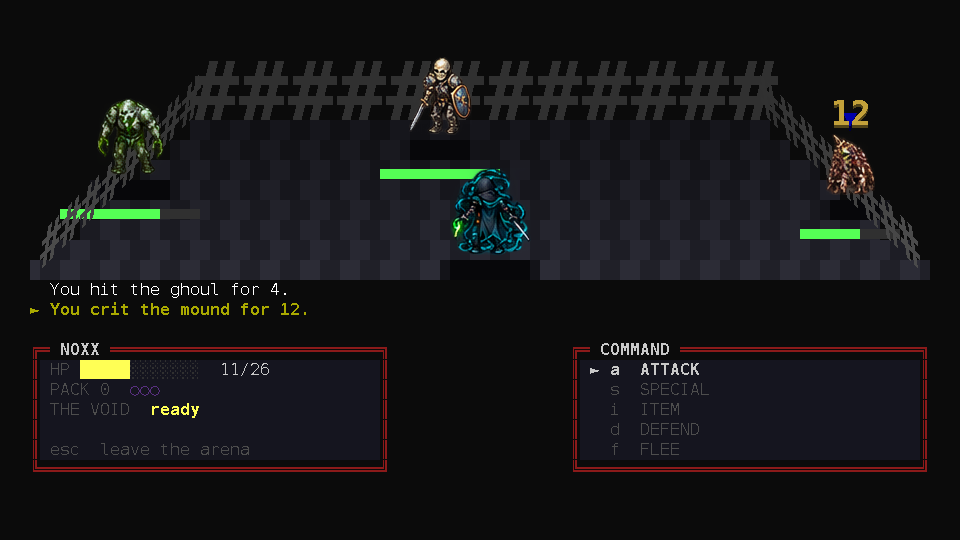
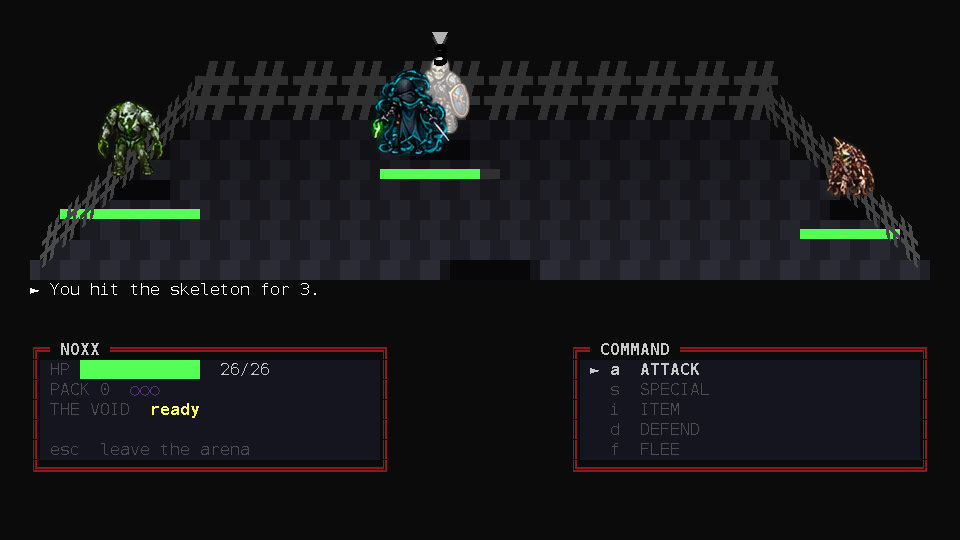
the arena moves: a breath, a blink, and a flash
A fight was a still picture that changed once a beat. Now the figures breathe --
two pixels, each on a phase taken from its own place on the floor, so a row of
monsters does not rise like a wave -- and a blow is a *blink*: the striker fades
out where it stands, comes back in beside whatever it is hitting, and is gone
again before the beat that started it is over. Whoever takes the blow jolts and
flashes white for a quarter of a second, and the camera knock is the one the
arena already had.

Nothing *travels*. A fight this size has no room for a walk, and a monster that
walked over would make every round twice as long as the blow it holds -- but the
eye reads the two places as one movement, which is the whole trick, and the fight
has had the regie for it since M1: events land one at a time, so an event is
exactly the length of one blow.

The flash is the sprite as a white silhouette (its own alpha, filled white, made
once and kept), and the jolt is three pixels of shake. Striking figures are drawn
in a second pass, on top of everybody else, so the striker lands *in front of*
the one it is hitting.

The arena says it is `animating` as well as `busy`, which are two different
things that were one: busy holds the keyboard while the fight is talking, and
animating repaints every frame. Only the first of them should stop a player from
choosing, and the second is what a breath needs.

`docs/battle.png` is a blow landing.

diff --git a/src/neverdeads_revenge/desktop/screens/battle.py b/src/neverdeads_revenge/desktop/screens/battle.py
@@ -23,7 +23,7 @@ from __future__ import annotations
 import math
 from dataclasses import dataclass
 
-from PySide6.QtGui import QColor, QFontMetrics, QPainter, QTransform
+from PySide6.QtGui import QColor, QFontMetrics, QImage, QPainter, QTransform
 
 from ...game.battle import (
     ATTACK,
@@ -102,6 +102,18 @@ ARROW = "▼"
 BEAT = 0.42
 #: How long a number hangs in the air over a head.
 POPUP_LIFE = 0.85
+#: The idle breath: how fast a figure rises and falls, and how far. Small on
+#: purpose -- two pixels is the difference between a fight and a photograph.
+BOB_SPEED = 2.3
+BOB_HEIGHT = 2
+#: How long a strike takes, and when inside it the blow lands. A blink: out
+#: where the striker stands, back in beside what it is hitting, and gone again
+#: before the beat that started it is over.
+STRIKE = 0.62
+IMPACT_AT = STRIKE * 0.46
+#: How long a struck figure shakes, and how far.
+JOLT = 0.26
+JOLT_PIXELS = 3
 #: How many lines of the fight are readable at once.
 LOG_LINES = 3
 
@@ -214,6 +226,16 @@ class BattleScreen(Screen):
         self._shown: dict[int, int] = {}
         self.verdict: str | None = None
         self._size: tuple[int, int] | None = None
+        #: The arena's own clock, in seconds. The idle breath and every phase of
+        #: a strike are read off it, so nothing here owns a timer.
+        self._clock = 0.0
+        #: Who is mid-strike: ``id(attacker) -> (id(target), when it began)``.
+        self._strikes: dict[int, tuple[int, float]] = {}
+        #: Who was struck, and when the blow inside their strike landed.
+        self._hurts: dict[int, float] = {}
+        #: White silhouettes of the sprites, made once and reused: a hit flash is
+        #: the figure painted solid white for a few frames.
+        self._flashes: dict[int, QImage] = {}
 
     # -- the contract -------------------------------------------------------
     def draw(self, buffer: PatternBuffer, app) -> None:
@@ -231,20 +253,25 @@ class BattleScreen(Screen):
         self._draw_commands(buffer, *areas["commands"])
 
     def paste(self, image, app) -> None:
-        """The room and the models: walls, letters, the arrow, and the numbers.
+        """The room, the models, and everything that moves in them.
 
         Drawn here rather than in the grid because neither a monster nor a block
-        of masonry fits in a cell -- the whole look of the game is one fixed
-        cell, and this is the one place that has to leave it.
+        of masonry fits in a cell -- and drawn in two passes, because a striker
+        lands *in front of* what it is hitting: everybody stands first, and the
+        one mid-blow is painted over the top of them.
         """
         cols, rows = self._dims(app)
         figures = self._figures(cols, rows, app.font)
+        field = self._field(cols, rows, app.font.cell_w, app.font.cell_h)
         painter = QPainter(image)
         painter.setRenderHint(QPainter.RenderHint.TextAntialiasing, False)
-        field = self._field(cols, rows, app.font.cell_w, app.font.cell_h)
         self._paste_walls(painter, field)
+        strikers = [figure for figure in figures if id(figure.actor) in self._strikes]
         for figure in figures:
-            self._paste_model(painter, figure, app.font.cell_h)
+            if figure not in strikers:
+                self._paste_figure(painter, figure, app, figures)
+        for figure in strikers:
+            self._paste_figure(painter, figure, app, figures)
         for figure in figures:
             if figure.chosen:
                 self._paste_arrow(painter, figure, app.font.cell_h)
@@ -253,6 +280,119 @@ class BattleScreen(Screen):
         if self.verdict is not None:
             self._paste_verdict(painter, cols, rows, app)
         painter.end()
+
+    # -- where a figure stands, this frame ---------------------------------
+    def _paste_figure(self, painter: QPainter, figure: Staged, app, figures) -> None:
+        """One figure, where its own breath and its own strike put it.
+
+        Every moving part of a fight is decided here and nowhere else: a figure
+        stands where the stage says, rises and falls on the arena's clock, and --
+        while it is striking -- is somewhere else and see-through.
+        """
+        cell_w, cell_h = app.font.cell_w, app.font.cell_h
+        # A figure breathes on its own phase, taken from its own place on the
+        # floor: a row of monsters rising together would look like a wave.
+        raise_px = 0
+        if figure.actor.stats.alive:
+            raise_px = round(
+                math.sin(self._clock * BOB_SPEED + figure.cx / 40.0) * BOB_HEIGHT
+            )
+        home = figure.row * cell_h - THICKNESS
+        cx, baseline, opacity = figure.cx, home - raise_px, 1.0
+        pose = self._strike_pose(figure, figures, home, cell_w, cell_h)
+        if pose is not None:
+            cx, baseline, opacity = pose
+        else:
+            cx += self._jolt(figure)
+        self._paste_model(painter, figure, cx, baseline, opacity, app.font)
+
+    def _strike_pose(
+        self,
+        figure: Staged,
+        figures,
+        home: int,
+        cell_w: int,
+        cell_h: int,
+    ) -> tuple[int, int, float] | None:
+        """Where a striker is and how solid, or ``None`` if it is standing still.
+
+        The blow is a blink: the striker goes out where it stands, comes back in
+        beside whatever it is hitting, and is gone again before the beat that
+        started it is over. Nothing *travels* -- a fight this size has no room for
+        a walk, and a monster that walked over would make every round twice as
+        long as the blow it holds -- but the eye reads the two places as one
+        movement, which is the whole trick.
+        """
+        strike = self._strikes.get(id(figure.actor))
+        if strike is None:
+            return None
+        target_id, began = strike
+        progress = (self._clock - began) / STRIKE
+        if progress >= 1.0:
+            del self._strikes[id(figure.actor)]
+            return None
+        near_x, near_y = self._beside_target(
+            figure, target_id, figures, home, cell_w, cell_h
+        )
+        if progress < 0.20:  # out, where it stands
+            return figure.cx, home, 1.0 - progress / 0.20
+        if progress < 0.34:  # in, beside the one being hit
+            return near_x, near_y, (progress - 0.20) / 0.14
+        if progress < 0.70:  # the blow itself
+            return near_x, near_y, 1.0
+        if progress < 0.84:  # out again, over there
+            return near_x, near_y, 1.0 - (progress - 0.70) / 0.14
+        return figure.cx, home, (progress - 0.84) / 0.16  # back where it belongs
+
+    @staticmethod
+    def _beside_target(
+        figure: Staged,
+        target_id: int,
+        figures,
+        home: int,
+        cell_w: int,
+        cell_h: int,
+    ) -> tuple[int, int]:
+        """Where a striker appears: in front of, and a little to the left of, the
+        one it is hitting.
+
+        Left far enough that the *edge* of the striker stands beside the middle
+        of the one being hit, and low enough to be standing in front of it -- so
+        the blow reads as two figures and not as one figure wearing another.
+        """
+        for other in figures:
+            if id(other.actor) == target_id:
+                return other.cx - cell_w * 3, other.row * cell_h + cell_h * 4 // 5
+        return figure.cx, home
+
+    def _jolt(self, figure: Staged) -> int:
+        """How far a struck figure is shaking, in pixels, right now."""
+        struck = self._hurts.get(id(figure.actor))
+        if struck is None:
+            return 0
+        age = self._clock - struck
+        if age < 0:
+            return 0
+        if age > JOLT:
+            del self._hurts[id(figure.actor)]
+            return 0
+        return round(math.sin(age * 46.0) * JOLT_PIXELS)
+
+    def _flash(self, image: QImage) -> QImage:
+        """The figure as a white silhouette, made once and kept."""
+        cached = self._flashes.get(id(image))
+        if cached is None:
+            cached = QImage(image.size(), QImage.Format.Format_ARGB32)
+            cached.fill(QColor(0, 0, 0, 0))
+            painter = QPainter(cached)
+            painter.drawImage(0, 0, image)
+            painter.setCompositionMode(
+                QPainter.CompositionMode.CompositionMode_SourceIn
+            )
+            painter.fillRect(cached.rect(), QColor("#ffffff"))
+            painter.end()
+            self._flashes[id(image)] = cached
+        return cached
 
     def _paste_verdict(
         self, painter: QPainter, cols: int, rows: int, app
@@ -339,8 +479,18 @@ class BattleScreen(Screen):
 
     @property
     def busy(self) -> bool:
-        """Whether the fight still has something to say or show."""
+        """Whether the fight still has something to say or show.
+
+        Talking, and only talking: the keyboard is held while the round is being
+        played, because a player drumming on enter would be choosing the next
+        verb for a blow they have not seen land.
+        """
         return bool(self._queue) or self._beat > 0 or bool(self._popups)
+
+    @property
+    def animating(self) -> bool:
+        """A fight always breathes, so the arena is always being repainted."""
+        return True
 
     def step(self, dt: float, app) -> None:
         """A frame went by: age the numbers, and land the next event.
@@ -349,6 +499,7 @@ class BattleScreen(Screen):
         the life of a damage number -- because a screen that kept a timer of its
         own would keep running after the window it is drawn in has gone.
         """
+        self._clock += dt
         for popup in self._popups:
             popup.age += dt
         self._popups = [popup for popup in self._popups if popup.age < Popup.LIFE]
@@ -447,6 +598,12 @@ class BattleScreen(Screen):
                 point = self._point_of(struck.target, app)
                 if point is not None:
                     app.view.shake(strength=4 if outcome.crit else 2, seconds=0.16)
+        # The strike is recorded whether or not it lands: a swing that missed
+        # was still a swing, and a hero who did not move would look like a hero
+        # who did nothing.
+        self._strikes[id(struck.actor)] = (id(struck.target), self._clock)
+        if outcome.hit and not outcome.dodged:
+            self._hurts[id(struck.target)] = self._clock + IMPACT_AT
         if not outcome.hit:
             return
         if struck.actor is self.battle.hero:
@@ -698,48 +855,67 @@ class BattleScreen(Screen):
         cap = QFontMetrics(letter_font(probe).bold).capHeight() or probe
         return max(12, int(probe * band / cap))
 
-    def _paste_model(self, painter: QPainter, figure: Staged, cell_h: int) -> None:
+    def _paste_model(
+        self,
+        painter: QPainter,
+        figure: Staged,
+        cx: int,
+        baseline: int,
+        opacity: float,
+        font,
+    ) -> None:
         """One figure on the floor: its picture if the sheets have one, its
-        letter if they do not.
+        letter if they do not, with its own opacity and its own place.
 
         The sprite is drawn at its own size and not scaled -- these are painted
-        figures, and a painted figure put through a nearest-neighbour resize
-        looks like a mistake -- so what the sheets made is what the arena shows.
-        The letter is the fallback and is drawn exactly as it was before: the
-        whole game looked like that, and a monster the sheets have never heard
-        of should not be the one fight with nothing on the floor.
+        figures, and a painted figure put through a nearest-neighbour resize looks
+        like a mistake -- so what the sheets made is what the arena shows.
         """
-        baseline = figure.row * cell_h - THICKNESS
+        struck = self._hurts.get(id(figure.actor))
+        flash_age = None if struck is None else self._clock - struck
+        if flash_age is not None and 0 <= flash_age <= JOLT:
+            pass
+        else:
+            flash_age = None
+
         if figure.sprite is not None:
             image = figure.sprite
-            faded = not figure.actor.stats.alive
-            left = figure.cx - image.width() // 2
-            if faded:
+            left = cx - image.width() // 2
+            top = baseline - image.height()
+            if not figure.actor.stats.alive:
                 # A monster that is out of the fight stays where it fell, dimmed
                 # rather than removed: a corpse that vanished on the last blow
                 # would make the end of a fight unreadable.
-                painter.setOpacity(0.45)
-            painter.drawImage(left, baseline - image.height(), image)
+                opacity *= 0.45
+            painter.setOpacity(opacity)
+            painter.drawImage(left, top, image)
+            if flash_age is not None:
+                painter.setOpacity(opacity * (1.0 - flash_age / JOLT) * 0.85)
+                painter.drawImage(left, top, self._flash(image))
             painter.setOpacity(1.0)
             return
 
-        font = letter_font(figure.size)
-        painter.setFont(font.bold)
-        metrics = QFontMetrics(font.bold)
-        left = figure.cx - metrics.horizontalAdvance(figure.glyph) // 2
+        glyph_font = letter_font(figure.size)
+        painter.setFont(glyph_font.bold)
+        metrics = QFontMetrics(glyph_font.bold)
+        left = cx - metrics.horizontalAdvance(figure.glyph) // 2
         ink = parse_style(figure.colour).fg
-        dead = not figure.actor.stats.alive
+        if not figure.actor.stats.alive:
+            faded = QColor(ink)
+            faded.setRed((faded.red() + 20) // 3)
+            faded.setGreen((faded.green() + 20) // 3)
+            faded.setBlue((faded.blue() + 20) // 3)
+            ink = faded
+        painter.setOpacity(opacity)
         painter.setPen(ink.darker(320))
         painter.drawText(left, baseline + THICKNESS, figure.glyph)
-        if dead:
-            faded_ink = QColor(ink)
-            faded_ink.setRed((faded_ink.red() + 20) // 3)
-            faded_ink.setGreen((faded_ink.green() + 20) // 3)
-            faded_ink.setBlue((faded_ink.blue() + 20) // 3)
-            painter.setPen(faded_ink)
+        if flash_age is not None:
+            painter.setPen(QColor("#ffffff"))
+            painter.setOpacity(opacity * (1.0 - flash_age / JOLT) * 0.85)
         else:
             painter.setPen(ink)
         painter.drawText(left, baseline, figure.glyph)
+        painter.setOpacity(1.0)
 
     def _paste_arrow(self, painter: QPainter, figure: Staged, cell_h: int) -> None:
         """The blade over the chosen one -- the menus' marker, standing up.

diff --git a/src/neverdeads_revenge/desktop/app.py b/src/neverdeads_revenge/desktop/app.py
@@ -292,7 +292,8 @@ class DesktopApp(QMainWindow):
             for screen in self.screens
         )
         breathing = self._void_is_breathing()
-        playing = getattr(self.screens[-1], "busy", False)
+        top = self.screens[-1]
+        playing = getattr(top, "busy", False) or getattr(top, "animating", False)
         if not (
             holding
             or playing
@@ -304,8 +305,10 @@ class DesktopApp(QMainWindow):
             return
         if playing:
             # A screen with something to play gets a beat per frame: the battle
-            # lands its blows one at a time instead of printing a round at once.
-            self.screens[-1].step(0.033, self)
+            # lands its blows one at a time instead of printing a round at once
+            # -- and a screen with something *moving* gets the same clock, which
+            # is what the arena breathes on.
+            top.step(0.033, self)
         if breathing and not (
             holding or self.effects.active or self.view.is_shaking()
         ):

diff --git a/src/neverdeads_revenge/desktop/screens/base.py b/src/neverdeads_revenge/desktop/screens/base.py
@@ -59,6 +59,12 @@ class Screen:
     #: read the clock themselves and the particles live in the effects layer.
     busy: bool = False
 
+    #: Whether something on this screen is *moving*, which is not the same as
+    #: talking: a fight breathes while the player is deciding what to do, and a
+    #: screen that is moving is repainted every frame without taking the keyboard
+    #: away. Nothing else in this game moves on its own.
+    animating: bool = False
+
     def step(self, dt: float, app) -> None:
         """A frame went by. Only the screens with something to play override it."""
         return None
